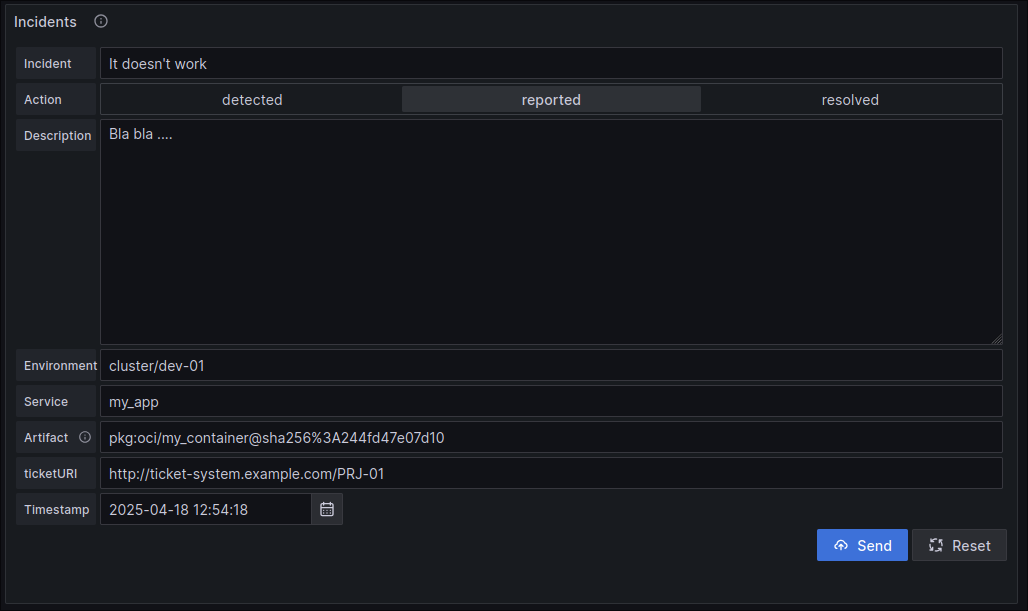
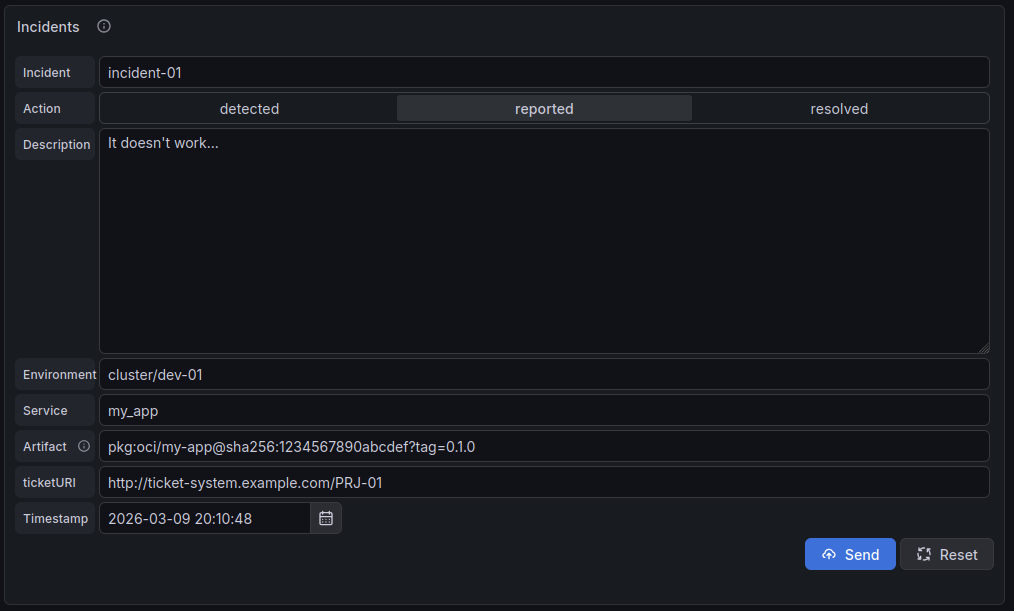
docs: update the getting-started

diff --git a/src/docs/getting-started.md b/src/docs/getting-started.md
@@ -35,11 +35,15 @@ First, you'll need to get the CDviz demo environment up and running on your loca
    This command will start all the necessary components: a web application for sending events, the CDviz Collector, the CDviz Database, and a pre-configured Grafana instance.
 
 4. Access the demo dashboard in your browser:
-   [http://localhost:3000/d/demo-service-deployed/demo-service-deployed](http://localhost:3000/d/demo-service-deployed/demo-service-deployed)
+   <http://localhost:3000/d/demo_service_deployed/service3a-demo>
 
    You should see a dashboard with some initial sample data.
 
-   ![Initial Dashboard View](/quickstart/metrics_empty.png)
+   ![Initial Filled Dashboard View](/quickstart/metrics_filled.png)
+
+5. Filter by service `my_app` (not listed, as it didn't exist yet) to have like the Empty Dashboard
+
+   ![Initial Empty Dashboard View](/quickstart/metrics_empty.png)
 
 ## 2. Sending Your First Events
 
@@ -51,7 +55,14 @@ We send events to simulate your ticket system, CI tools, registries,... reportin
 
 1. On the dashboard page, scroll down to the "Services Deployed" form. This form allows you to simulate service deployment events.
 
-2. Fill out the form with some sample data. For the artifact, you can use the [Package URL (PURL) format](https://github.com/package-url/purl-spec). For example: `pkg:oci/my-app@sha256:1234567890abcdef`
+2. Fill out the form with some sample data. For the artifact, you can use the [Package URL (PURL) format](https://github.com/package-url/purl-spec). For example:
+
+   ```yaml
+   service: my_app
+   action: deployed
+   artifact: pkg:oci/my-app@sha256:1234567890abcdef?tag=0.1.0
+   environment: cluster/dev-01
+   ```
 
    ![Service Deployment Form Example](/quickstart/form_services_deployed_sample.png)
 
@@ -64,6 +75,16 @@ We send events to simulate your ticket system, CI tools, registries,... reportin
 1. Scroll down to the "Incidents Reported" form. This form allows you to simulate incident events.
 
 2. Fill out the form with some sample data.
+
+   ```yaml
+   incident: incident-01
+   action: reported
+   description: It doesn't work...
+   environment: cluster/dev-01
+   service: my_app
+   artifact: pkg:oci/my-app@sha256:1234567890abcdef?tag=0.1.0
+   ticketURI: http://ticket-system.example.com/PRJ-01
+   ```
 
    ![Incident Reporting Form](/quickstart/form_incidents_reported_sample.png)
 
@@ -79,6 +100,7 @@ Congratulations! You've successfully sent your first CDEvents and visualized the
 - **Explore the CDEvents Activity dashboard:** This dashboard provides a more detailed view of all the CDEvents that have been collected. You can access it at [http://localhost:3000/d/cdevents-activity/cdevents-activity](http://localhost:3000/d/cdevents-activity/cdevents-activity).
 - **Submit raw JSON events:** For more advanced use cases, you can use the "Raw JSON" form to submit CDEvents in their raw JSON format.
 - **Explore other dashboards:** and look at `cdviz/demos/uses_cases` to see how data was injected (`csv -> cdviz-collector (transformers) -> database`)
+<!--
 
 ## Frequently Asked Questions
 
@@ -97,3 +119,4 @@ CDviz collects the raw event data needed to calculate all four DORA metrics: Dep
 ### What is the difference between CDviz and CDEvents?
 
 CDEvents is a Continuous Delivery Foundation (CDF) specification — a standardized JSON schema for describing software delivery events. CDviz is a platform that implements CDEvents: it collects events, stores them in a database, and visualizes them in dashboards. CDviz uses CDEvents as its data model; you can also send CDEvents to other CDEvents-compatible systems.
+-->
